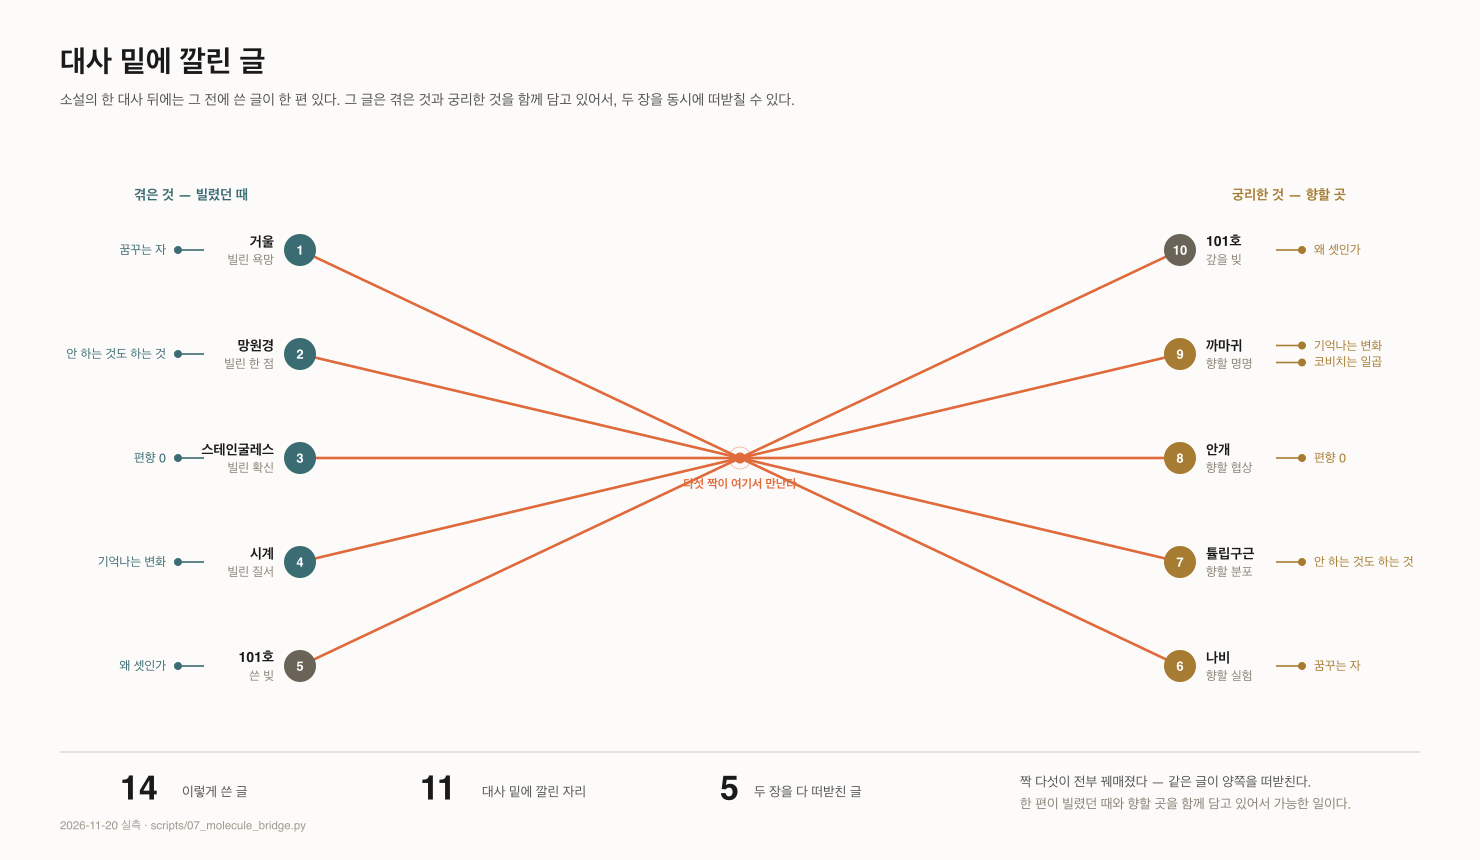
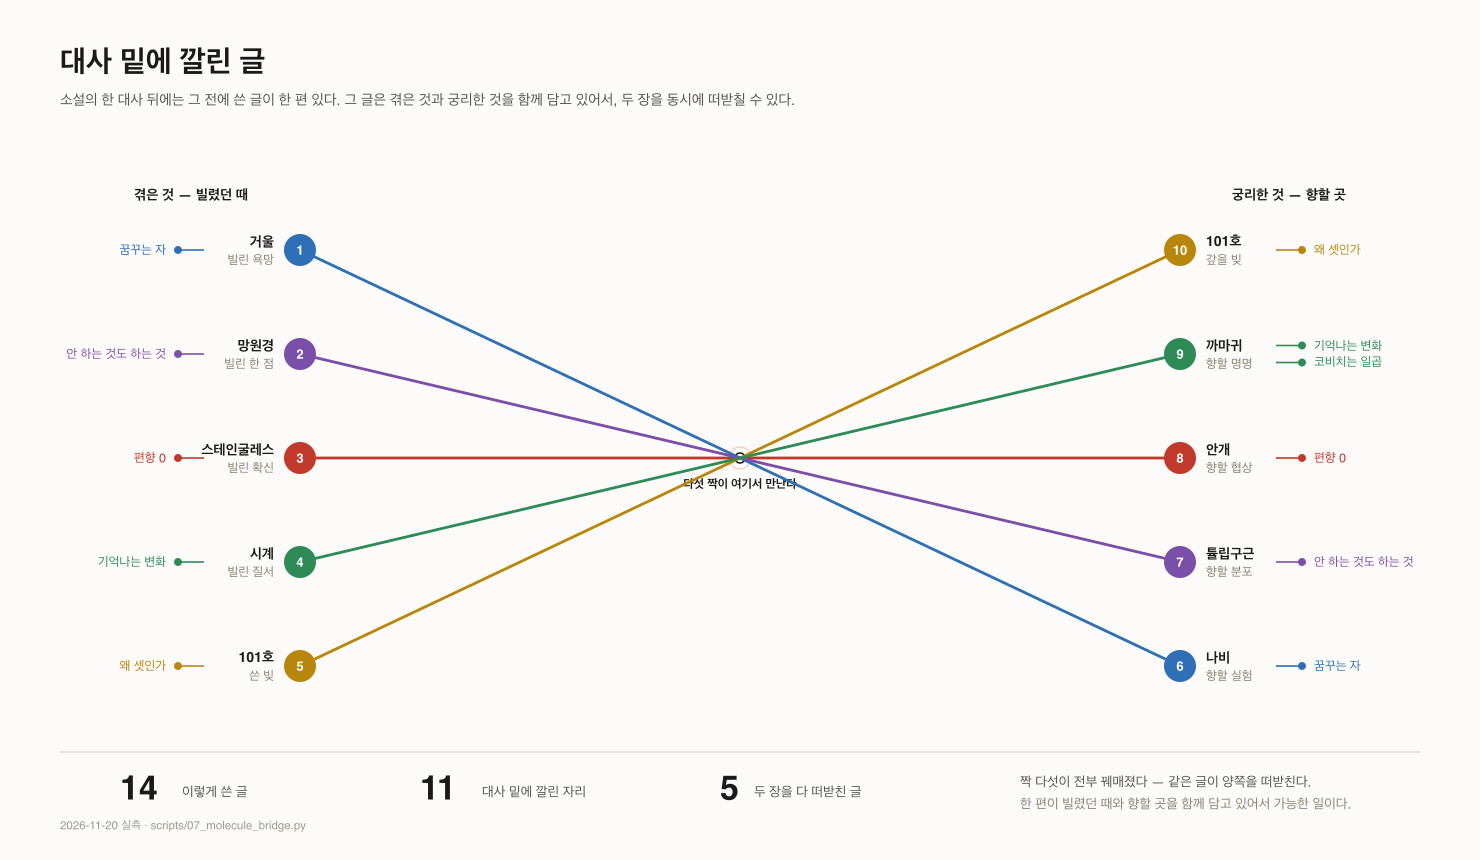
edit: 🍇 색을 장이 아니라 짝에 붙인다 — 다섯 색이 다섯 짝이다
전에는 왼쪽이 전부 한 색, 오른쪽이 전부 한 색이었다. 그러면 「새장 대 둥지」로
읽혀서, 이 그림이 말하려는 「짝」이 안 보인다. 이제 한 짝의 두 장과 그 둘을
잇는 선이 같은 색이다. 선을 눈으로 따라가지 않아도 짝이 보인다.

  1-6 파랑 · 2-7 보라 · 3-8 빨강 · 4-9 초록 · 5-10 노랑

가운데 교차점이 선에 묻혀 안 읽혔다. 바탕을 깔고 점을 중립색으로 바꿨다.
교차가 이 그림의 요점이라 가려지면 안 된다.

diff --git a/scripts/07_molecule_bridge.py b/scripts/07_molecule_bridge.py
@@ -14,16 +14,16 @@
 import subprocess, os, pathlib
 
 INK="#1a1a1a"; SUB="#555"; CAP="#8a8275"; BG="#fcfbf9"
-CAGE="#3b6b73"      # 겪은 것 — 1~4장
-NEST="#a67c32"      # 궁리한 것 — 6~9장
-MID ="#6a6358"      # 5·10장
+# 짝색 다섯 — 색은 장이 아니라 **짝**에 붙는다. 한 짝의 두 장과 그 선이 같은 색이다.
+PAIR=["#2F6FB5","#7B4FA8","#C0392B","#2E8B57","#B8860B"]   # 1-6 2-7 3-8 4-9 5-10
+CAGE=PAIR[0]; NEST=PAIR[4]; MID="#6a6358"   # 머리말 글자용
 EMPTY="#ded9d0"; HOT="#e06a3b"
 W,H=1480,860; LX,RX=300,1180; Y0,DY=250,104
 
-L=[("1","거울","빌린 욕망",CAGE),("2","망원경","빌린 한 점",CAGE),("3","스테인굴레스","빌린 확신",CAGE),
-   ("4","시계","빌린 질서",CAGE),("5","101호","쓴 빚",MID)]
-R=[("10","101호","갚을 빚",MID),("9","까마귀","향할 명명",NEST),("8","안개","향할 협상",NEST),
-   ("7","튤립구근","향할 분포",NEST),("6","나비","향할 실험",NEST)]
+L=[("1","거울","빌린 욕망",PAIR[0]),("2","망원경","빌린 한 점",PAIR[1]),("3","스테인굴레스","빌린 확신",PAIR[2]),
+   ("4","시계","빌린 질서",PAIR[3]),("5","101호","쓴 빚",PAIR[4])]
+R=[("10","101호","갚을 빚",PAIR[4]),("9","까마귀","향할 명명",PAIR[3]),("8","안개","향할 협상",PAIR[2]),
+   ("7","튤립구근","향할 분포",PAIR[1]),("6","나비","향할 실험",PAIR[0])]
 # 깔린 자리 — 손으로 적지 않는다. 동기화된 chapters/ 에서 직접 읽는다.
 #   sync 가 vault 의 <!--글:NN--> 를 docs/essays/NN_*.md 링크로 펴 놓았으므로
 #   여기서 그 링크를 세면 그림이 원고를 따라온다. 손으로 적으면 빠뜨린다(실측).
@@ -53,16 +53,18 @@ o=[f'<svg xmlns="http://www.w3.org/2000/svg" viewBox="0 0 {W} {H}" width="{W}" h
    f'<rect width="{W}" height="{H}" fill="{BG}"/>']
 o.append(t(60,62,"대사 밑에 깔린 글",30,INK,w="bold"))
 o.append(t(60,100,"소설의 한 대사 뒤에는 그 전에 쓴 글이 한 편 있다. 그 글은 겪은 것과 궁리한 것을 함께 담고 있어서, 두 장을 동시에 떠받칠 수 있다.",14.5,SUB))
-o.append(t(LX-52,195,"겪은 것 — 빌렸던 때",14,CAGE,a="end",w="bold"))
-o.append(t(RX+52,195,"궁리한 것 — 향할 곳",14,NEST,w="bold"))
+o.append(t(LX-52,195,"겪은 것 — 빌렸던 때",14,INK,a="end",w="bold"))
+o.append(t(RX+52,195,"궁리한 것 — 향할 곳",14,INK,w="bold"))
 
 # 짝 선 다섯 — 1↔6 … 5↔10. 가운데 한 점에서 만난다.
 for i in range(5):
     y1=Y0+DY*i; y2=Y0+DY*(4-i)
-    o.append(f'<line x1="{LX}" y1="{y1}" x2="{RX}" y2="{y2}" stroke="{EMPTY}" stroke-width="2"/>')
+    o.append(f'<line x1="{LX}" y1="{y1}" x2="{RX}" y2="{y2}" stroke="{PAIR[i]}" '
+             f'stroke-width="2" opacity=".30"/>')
 cx,cy=(LX+RX)/2,Y0+DY*2
-o.append(f'<circle cx="{cx}" cy="{cy}" r="5.5" fill="{HOT}"/>')
-o.append(t(cx,cy+26,"다섯 짝이 여기서 만난다",12,HOT,a="middle",w="bold"))
+o.append(f'<circle cx="{cx}" cy="{cy}" r="5" fill="{BG}" stroke="{INK}" stroke-width="1.6"/>')
+o.append(f'<rect x="{cx-86}" y="{cy+16}" width="172" height="20" rx="4" fill="{BG}"/>')
+o.append(t(cx,cy+26,"다섯 짝이 여기서 만난다",12,INK,a="middle",w="bold"))
 o.append(f'<circle cx="{cx}" cy="{cy}" r="11" fill="none" stroke="{HOT}" stroke-width="1" opacity=".4"/>')
 
 # ── 팔이 둘인 글 — 같은 제목이 양쪽에 있으면 그 선을 실선으로 긋는다. 자동이다. ──
@@ -71,7 +73,7 @@ li={x[2]:x[1] for x in LAID if x[0]=="L"}; ri={x[2]:x[1] for x in LAID if x[0]==
 ey1=ey2=None
 for nm in BOTH:
     ey1,ey2=Y0+DY*li[nm],Y0+DY*ri[nm]
-    o.append(f'<line x1="{LX}" y1="{ey1}" x2="{RX}" y2="{ey2}" stroke="{HOT}" stroke-width="2.6"/>')
+    o.append(f'<line x1="{LX}" y1="{ey1}" x2="{RX}" y2="{ey2}" stroke="{PAIR[li[nm]]}" stroke-width="2.8"/>')
 # 상자는 선 위 왼쪽 1/4 지점에 둔다 — 가운데 교차점을 가리면 이 그림의 요점이 가려진다.
 
 
@@ -94,8 +96,9 @@ _seen=_C()
 for side,i,name in LAID:
     k=(side,i); _n=sum(1 for x in LAID if (x[0],x[1])==k)
     y=Y0+DY*i+(_seen[k]-(_n-1)/2)*17; _seen[k]+=1
-    if side=="L": x0,x1,c,a=LX-96,LX-122,CAGE,"end"
-    else:         x0,x1,c,a=RX+96,RX+122,NEST,"start"
+    pc=PAIR[i] if side=="L" else PAIR[4-i]
+    if side=="L": x0,x1,c,a=LX-96,LX-122,pc,"end"
+    else:         x0,x1,c,a=RX+96,RX+122,pc,"start"
     o.append(f'<line x1="{x0}" y1="{y}" x2="{x1}" y2="{y}" stroke="{c}" stroke-width="1.6"/>')
     o.append(f'<circle cx="{x1}" cy="{y}" r="4" fill="{c}"/>')
     o.append(t(x1+(-12 if side=="L" else 12),y,name,12.5,c,a=a))

diff --git a/scripts/img_ledger.md b/scripts/img_ledger.md
@@ -29,7 +29,7 @@
 | 🚨 | `ch9.svg` | 10 | `interactive/reader.html` | 0 | 0 | **없다** |
 | 🚨 | `epigraph_debt.png` | 205 | **아무도 안 씀** | 0 | 0 | **없다** |
 | 🚨 | `hero.png` | 355 | `index.html` | 0 | 0 | **없다** |
-| ✅ | `molecule_bridge.png` | 113 | `scripts/07_molecule_bridge.py` | 0 | 0 | 07_molecule_bridge.py |
+| ✅ | `molecule_bridge.png` | 126 | `scripts/07_molecule_bridge.py` | 1 | 0 | 07_molecule_bridge.py |
 | ✅ | `molecule_bridge.svg` | 14 | `scripts/07_molecule_bridge.py` | 0 | 0 | 07_molecule_bridge.py |
 | 🚨 | `og_center.png` | 831 | `README.md` | 0 | 1 | **없다** |
 | 🚨 | `poem_sense.png` | 231 | **아무도 안 씀** | 0 | 0 | **없다** |
